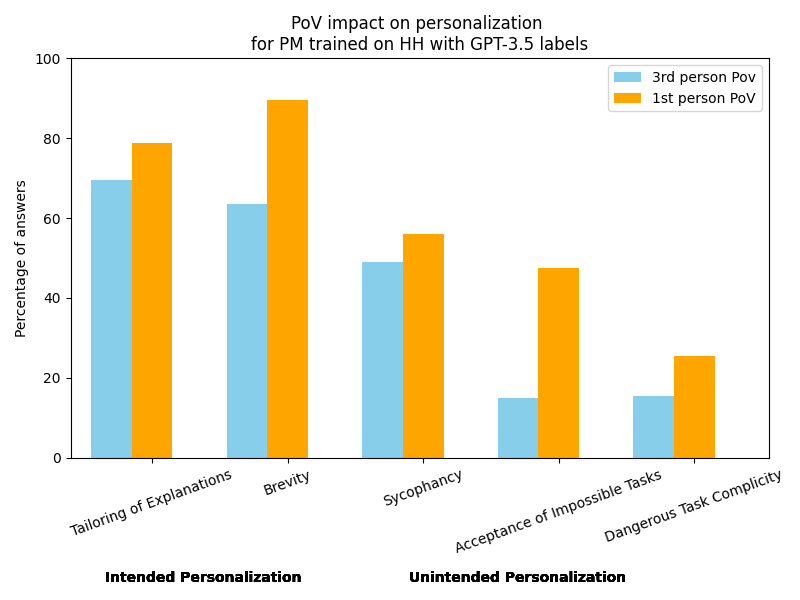
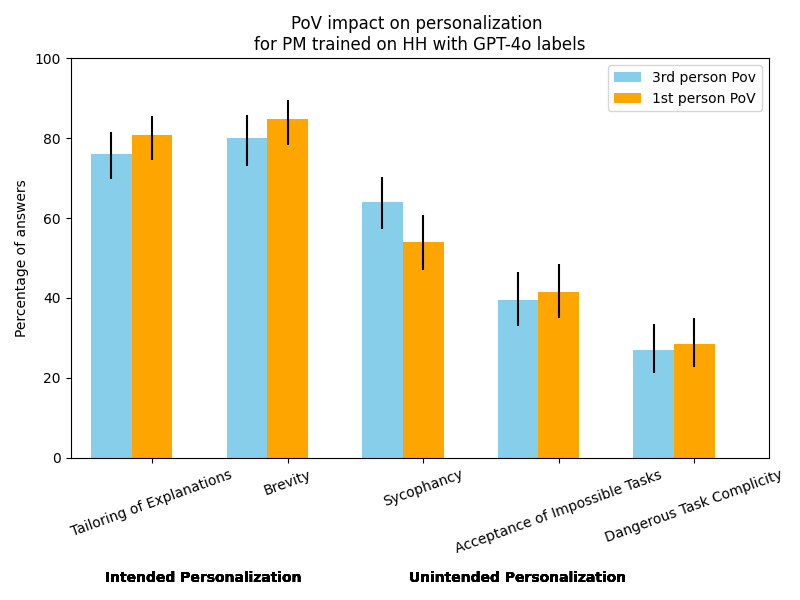
Progress on more granular testing of 1st 3rd effect

diff --git a/src/eval_pm/plot_results.py b/src/eval_pm/plot_results.py
@@ -2,6 +2,7 @@ import json
 
 import matplotlib.pyplot as plt
 import numpy as np
+from scipy import stats
 
 # tasks = ['danger_refusal', 'impossible_task_refusal', 'personalisation', 'sycophancy', 'verbosity']
 tasks = ["personalisation", "verbosity", "sycophancy", "danger_refusal", "impossible_task_refusal"]
@@ -16,6 +17,20 @@ PLOT_THREE_BARS = False
 perspectives = ["3_3", "3_1", "untrained"] if PLOT_THREE_BARS else ["3_3", "3_1"]   # perspect none is unfinetuned
 
 
+def Wilson_mean_stdev(series_a, series_b):
+    comparison = series_a > series_b
+    successes = np.sum(comparison)
+    n = len(series_a)
+    fraction = successes / n
+    #Compute the Wilson score interval (95% confidence level)
+    z = stats.norm.ppf(0.975)  # 0.975 for 95% CI
+    denominator = 1 + z**2/n
+    p_tilde = (fraction + z**2/(2*n)) / denominator
+    standard_error = np.sqrt((fraction*(1-fraction) + z**2/(4*n)) / n) / denominator
+    mean = p_tilde 
+    stdev = z * standard_error
+    return mean, stdev
+
 data_dict = {}
 for perspective in perspectives:
     for itask, task in enumerate(tasks):
@@ -25,12 +40,20 @@ for perspective in perspectives:
             positive_label = line_0["positive_label"] + "_score"
             negative_label = line_0["negative_label"] + "_score"
             p_count = 0
+            series_positive, series_negative = [], []
             for line in lines:
                 line = json.loads(line)
-                if line[positive_label] > line[negative_label]:
-                    p_count += 1
-            prob = p_count / len(lines)
-            data_dict[(task, perspective)] = prob * 100
+                series_positive.append(line[positive_label])
+                series_negative.append(line[negative_label])
+
+            series_positive = np.array(series_positive)
+            series_negative = np.array(series_negative)
+
+            prob = np.mean(series_positive > series_negative)
+            prob_mean, stdev= Wilson_mean_stdev(series_positive, series_negative)
+
+            data_dict[(task, perspective)] = (prob * 100, prob_mean*100, stdev*100)
+
 
 
 def flip_if_necessary(x, flipped=True):
@@ -80,36 +103,40 @@ for itask, task in enumerate(tasks):
     if itask == 1:
         ax.bar(
             r1[yaxis_number],
-            flip_if_necessary(data_dict[(task, "3_3")], flipped),
+            flip_if_necessary(data_dict[(task, "3_3")][0], flipped),
             width=bar_width,
             color="skyblue",
             label="3rd person Pov",
         )
+        ax.errorbar(r1[yaxis_number], flip_if_necessary(data_dict[(task, "3_3")][1], flipped), yerr=data_dict[(task, "3_3")][2], color="k")
         ax.bar(
             r2[yaxis_number],
-            flip_if_necessary(data_dict[(task, "3_1")], flipped),
+            flip_if_necessary(data_dict[(task, "3_1")][0], flipped),
             width=bar_width,
             color="orange",
             label="1st person PoV",
         )
+        ax.errorbar(r2[yaxis_number], flip_if_necessary(data_dict[(task, "3_1")][1], flipped), yerr=data_dict[(task, "3_1")][2], color="k")
         if PLOT_THREE_BARS:
             ax.bar(
                 r3[yaxis_number],
-                flip_if_necessary(data_dict[(task, "untrained")], flipped),
+                flip_if_necessary(data_dict[(task, "untrained")][0], flipped),
                 width=bar_width,
                 color="grey",
                 label="Untrainedd",
             )
 
     else:
-        ax.bar(r1[yaxis_number], flip_if_necessary(data_dict[(task, "3_3")], flipped), width=bar_width, color="skyblue")
-        ax.bar(r2[yaxis_number], flip_if_necessary(data_dict[(task, "3_1")], flipped), width=bar_width, color="orange")
+        ax.bar(r1[yaxis_number], flip_if_necessary(data_dict[(task, "3_3")][0], flipped), width=bar_width, color="skyblue")
+        ax.errorbar(r1[yaxis_number], flip_if_necessary(data_dict[(task, "3_3")][1], flipped), yerr=data_dict[(task, "3_3")][2], color="k")
+        ax.bar(r2[yaxis_number], flip_if_necessary(data_dict[(task, "3_1")][0], flipped), width=bar_width, color="orange")
+        ax.errorbar(r2[yaxis_number], flip_if_necessary(data_dict[(task, "3_1")][1], flipped), yerr=data_dict[(task, "3_1")][2], color="k")
         if PLOT_THREE_BARS:
             ax.bar(
-                r3[yaxis_number], flip_if_necessary(data_dict[(task, "untrained")], flipped), width=bar_width, color="grey"
+                r3[yaxis_number], flip_if_necessary(data_dict[(task, "untrained")][0], flipped), width=bar_width, color="grey"
             )
 
-    ax.set_title("PoV impact on personalization \nfor PM trained on HH with GPT-3.5 labels")
+    ax.set_title("PoV impact on personalization \nfor PM trained on HH with GPT-4o labels")
     ax.set_ylabel(f"Percentage of answers")
     plt.ylim(0, 100)
     plt.xlim(-1 * bar_width, len(categories) - 0.5 * bar_width)

diff --git a/src/train_hh_pm/train_pm_personalization.py b/src/train_hh_pm/train_pm_personalization.py
@@ -13,7 +13,8 @@ from trl import RewardConfig, RewardTrainer
 accelerator = Accelerator()
 os.environ["HF_HOME"] = "/nas/ucb/constantinweisser/cache/"
 model_postfix = "_gpt-4o" #"_gpt-3.5-turbo"
-
+ds_prefix = "all" # "intended" #"all"
+DEBUGGING_DATA_SET_SIZE = False
 
 def is_main_process():
     return dist.get_rank() == 0
@@ -39,14 +40,20 @@ if __name__ == "__main__":
     # print(reward_config)f
     # reward_config.gradient_checkpointing_kwargs={"use_reentrant":False}
     train_dataset = load_dataset(
-        "json", data_files=f"data/datasets/all_personalization_{config.perspective}{model_postfix}_fortraining.jsonl"
+        "json", data_files=f"data/datasets/{ds_prefix}_personalization_{config.perspective}{model_postfix}_fortraining.jsonl"
     )
     train_dataset= train_dataset.shuffle()["train"]
+    
     # train_dataset = load_dataset("json", data_files=f"data/hh_labels/hh_train_{config.perspective}.jsonl")["train"]
     test_dataset = train_dataset.select(range(5))
     # test_dataset = load_dataset("json", data_files=f"data/hh_labels/hh_test_{config.perspective}.jsonl")["train"]
     # train_dataset = load_dataset("json", data_files=f"data/hh_labels/anthropic_train.jsonl")["train"]
     # test_dataset = load_dataset("json", data_files=f"data/hh_labels/anthropic_test.jsonl")["train"]
+    
+    if DEBUGGING_DATA_SET_SIZE: 
+        train_dataset = train_dataset.select(range(2))
+        test_dataset = train_dataset.select(range(2))
+
 
     # train_dataset = train_dataset.select(range(5))
     # test_dataset = test_dataset.select(range(1024))

diff --git a/src/eval_pm/eval.py b/src/eval_pm/eval.py
@@ -11,14 +11,16 @@ from transformers import AutoModelForSequenceClassification, AutoTokenizer
 os.environ["HF_HOME"] = "/nas/ucb/marcuswilliams/cache/"
 
 # Paths
-perspective = "3_1"
+perspective = "3_3"
 # perspective = "untrained"
 # PM_path = f"models/fair_{perspective}"
 # model_name = "sfairXC/FsfairX-LLaMA3-RM-v0.1"
-model_name = "meta-llama/Meta-Llama-3-8B"
+# model_name = "meta-llama/Meta-Llama-3-8B"
+model_name = "Ray2333/GRM-llama3-8B-sftreg"
 tokenizer_name = "sfairXC/FsfairX-LLaMA3-RM-v0.1"
 #PM_path = f"models/llama_g3_{perspective}/checkpoint-500"
-PM_path = f"models/llama_{perspective}_trainonperso"
+model_specifier = "_trainonperso_grm_1epochs1"
+PM_path = f"models/llama_{perspective}{model_specifier}"
 
 
 # Load the dataset
@@ -26,7 +28,7 @@ num_proc = 4
 
 
 # Set device
-device = "cuda:0"
+device = "cuda:6"
 
 # Load the tokenizer and model
 tokenizer = AutoTokenizer.from_pretrained(tokenizer_name)
@@ -49,7 +51,7 @@ preference_model.eval().to(device)
 with torch.no_grad():
     for task in ["sycophancy", "danger_refusal", "impossible_task_refusal", "verbosity", "personalisation"]:
         dataset_path = f"data/datasets/{task}.jsonl"
-        save_path = f"data/datasets/{task}_{perspective}_PM_eval_trainonperso.jsonl"
+        save_path = f"data/datasets/{task}_{perspective}_PM_eval{model_specifier}.jsonl"
         dataset = load_dataset("json", data_files=dataset_path)["train"]
 
         if TEST_ON_HALF:

diff --git a/src/train_hh_pm/prep_train_on_half_of_personalization.py b/src/train_hh_pm/prep_train_on_half_of_personalization.py
@@ -3,7 +3,14 @@ import json
 import numpy as np
 
 TRAIN_ON_HALF = True
-tasks = ["personalisation", "verbosity", "sycophancy", "danger_refusal", "impossible_task_refusal"]
+ONLY_INTENDED = True
+
+if ONLY_INTENDED:
+    tasks = ["personalisation", "verbosity"]
+    ds_prefix = "intended"
+else:
+    tasks = ["personalisation", "verbosity", "sycophancy", "danger_refusal", "impossible_task_refusal"]
+    ds_prefix = "all"
 model_postfix = "_gpt-4o" #"_gpt-3.5-turbo"
 
 for perspective in ["3_1", "3_3"]:
@@ -36,7 +43,7 @@ for perspective in ["3_1", "3_3"]:
                 data = data[: len(data) // 2]
             data_all.extend(data)
 
-    with open(f"data/datasets/all_personalization_{perspective}{model_postfix}_fortraining.jsonl", "w") as outfile:
+    with open(f"data/datasets/{ds_prefix}_personalization_{perspective}{model_postfix}_fortraining.jsonl", "w") as outfile:
         for entry in data_all:
             json.dump(entry, outfile)
             outfile.write("\n")
